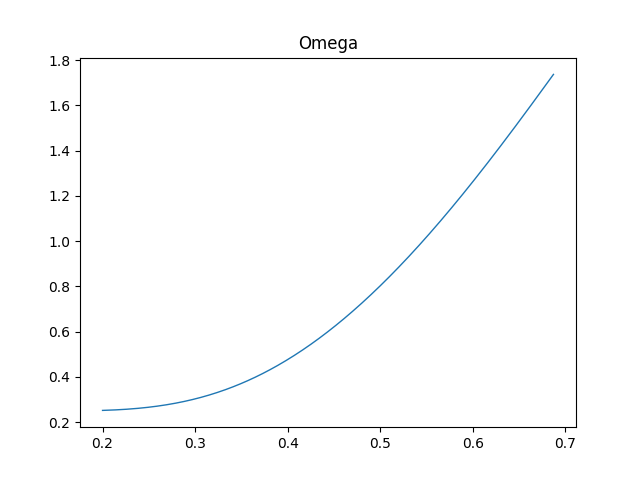
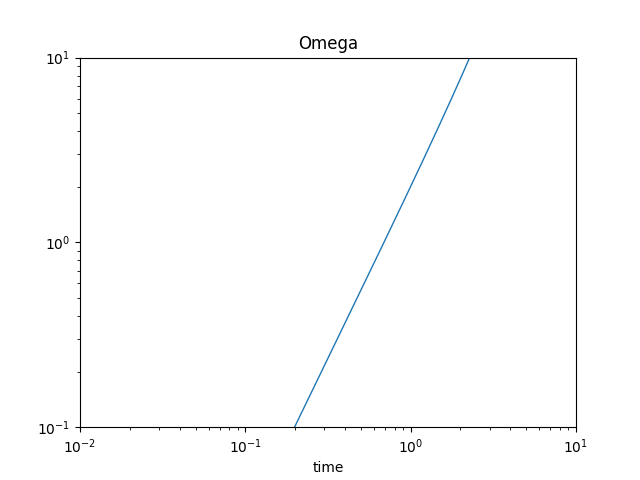
Taran saves the day. Plots working

diff --git a/superbubbles.py b/superbubbles.py
@@ -3,7 +3,7 @@
 from numpy import pi, sqrt, arccos, arcsin, exp, log
 from tqdm import tqdm
 import scipy.integrate as integrate
-import numpy as np; np.seterr(invalid='ignore')
+import numpy as np
 import plawt
 
 def r(z,y):
@@ -54,11 +54,6 @@ dr = lambda z, y: y / ( 2*sqrt(1 - 1/4*exp(z/H)*(1-y**2/(4*H**2)+exp(-z/H))**2) 
 dOmega = lambda y: 2 * pi * integrate.quad(lambda z: r(z, y) * dr(z, y), z12(y)[1], z12(y)[0])[0]
 dEth = lambda y: L_not - P * dOmega(y)
 
-# initial conditions
-yi = 0.1 #(goes up to 1.98?)
-Omegai = 2*dOmega(yi)
-Ethi = 1#P/(gamma-1)*Omegai
-
 def bubblesystem(state, t):
 	y, Omega, Eth = state
 
@@ -69,11 +64,45 @@ def bubblesystem(state, t):
 
 	return [dydt, dOmegadt, dEthdt]
 
+
+dt = 0.0001
+time = np.arange(0.005, 10, dt)
+
+OmegaFunc = lambda y: pi * integrate.quad(lambda z: r(z, y)**2, z12(y)[1], z12(y)[0])[0]
+EnergyFunc = lambda oprev, onext, e: oprev**(gamma-1)*(e+dt)/(onext**(gamma-1))
+
+# initial conditions
+yi = 0.01 #(goes up to 1.98?)
+Omegai = OmegaFunc(yi)
+Ethi = P/(gamma-1)*Omegai
 initialstate = [yi, Omegai, Ethi]
-time = np.arange(0.2, 10, 0.001)
-results = integrate.odeint(bubblesystem, initialstate, time)
-print(time[-1])
-plawt.plot({0:{'x':time, 'y':results[:, 0]}, 'show':False, 'filename': 'yplot.png', 'title': 'y'})
-plawt.plot({0:{'x':time, 'y':results[:, 1]}, 'show':False, 'filename': 'Omegaplot.png', 'title': 'Omega'})
-plawt.plot({0:{'x':time, 'y':results[:, 2]}, 'show':False, 'filename': 'Energyplot.png', 'title': 'Energy'})
+
+ys = [yi]
+Omegas = [Omegai]
+Es = [Ethi]
+
+for t in tqdm(time):
+	ynext = ys[-1] + dy(Es[-1], Omegas[-1])*dt
+	omeganext = OmegaFunc(ynext)
+	energynext = EnergyFunc(Omegas[-1], omeganext, Es[-1])
+
+	ys.append(ynext)
+	Omegas.append(omeganext)
+	Es.append(energynext)
+	if ynext > 1.99999:
+		break
+
+plawt.plot({0: {'x': time[:len(ys)-1], 'y': ys[:-1]},     'show':False, 'filename': 'yplot.png',     'title': "Y", 'xlabel': 'time',
+	'set_yscale': 'log', 'set_xscale': 'log', 'xlim': (0.01, 10), 'ylim': (0.1, 10.0)})
+plawt.plot({0: {'x': time[:len(ys)-1], 'y': Omegas[:-1]}, 'show':False, 'filename': 'Omegaplot.png', 'title': "Omega", 'xlabel': 'time',
+	'set_yscale': 'log', 'set_xscale': 'log', 'xlim': (0.01, 10), 'ylim': (0.1, 10.0)})
+plawt.plot({0: {'x': time[:len(ys)-1], 'y': Es[:-1]},     'show':False, 'filename': 'Energyplot.png','title': "Energy", 'xlabel': 'time',
+	'set_yscale': 'log', 'set_xscale': 'log', 'xlim': (0.01, 10), 'ylim': (0.01, 10.0)})
+
+
+# results = integrate.odeint(bubblesystem, initialstate, time)
+# print(time[-1])
+# plawt.plot({0:{'x':time, 'y':results[:, 0]}, 'show':False, 'filename': 'yplot2.png',     'title': 'y'})
+# plawt.plot({0:{'x':time, 'y':results[:, 1]}, 'show':False, 'filename': 'Omegaplot2.png', 'title': 'Omega'})
+# plawt.plot({0:{'x':time, 'y':results[:, 2]}, 'show':False, 'filename': 'Energyplot2.png', 'title': 'Energy'})
 
